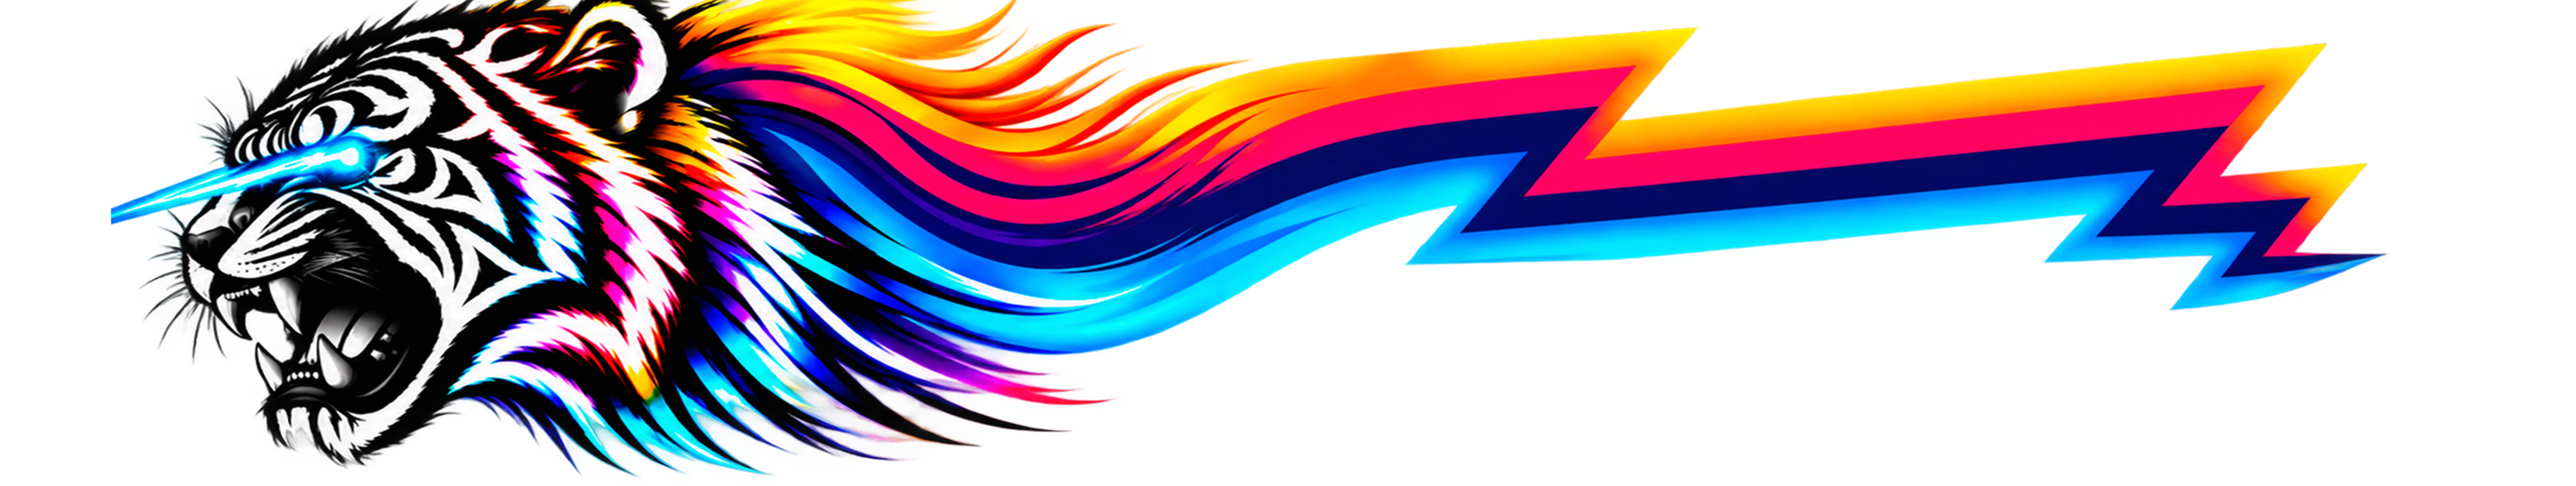
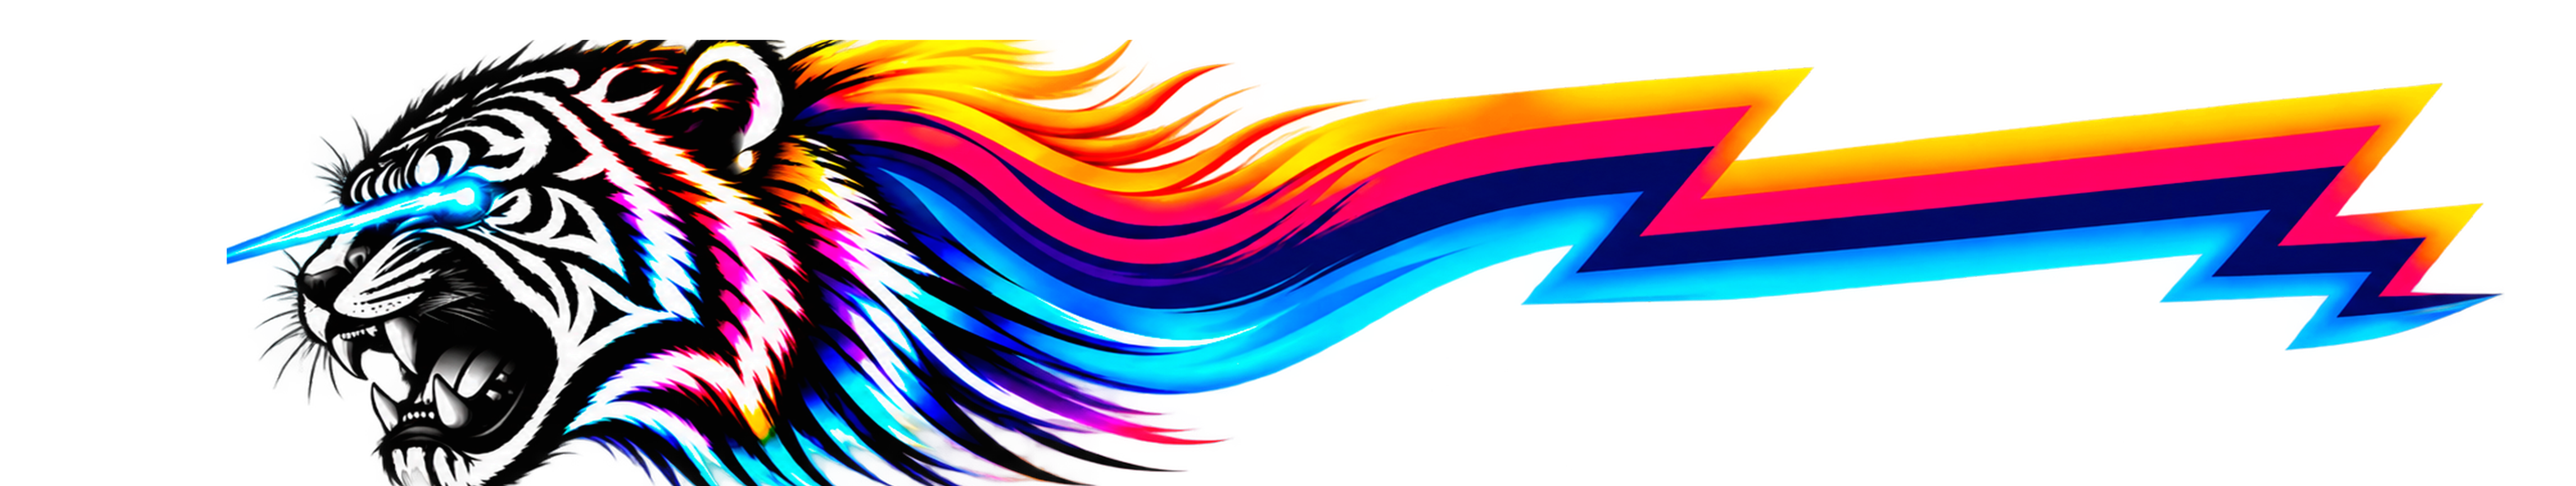
Tiger moved 39 in right, 13 in down so the laser tip lands on the locker-room door's top-right corner (Tripp 2026-10-12)
art/M8.png and sm/art/M8.png shifted in place (design content only, canvas unchanged); the beam tip now sits at 76 in in, 80 in up = the door's right edge at the door top. Lower jaw now runs about 10 in below the floor line and is clipped. GPT_BRIEF laser line updated. No measurement constant changed, so spec and layers untouched.

diff --git a/GPT_BRIEF.md b/GPT_BRIEF.md
@@ -40,7 +40,7 @@ Then wait for Tripp's go. This read-back is the whole point of the spec; it catc
 - **B4 mirrors:** Michael bought **48 ft** of mirror (11 October 2026): that is the run. 8 ft tall, standing on the **top edge of the trim**, not on the floor, so 80 to 1040 px up. The model places the run starting 9 ft past M4 (Tripp's working value, 8 to 10 ft): along Wall 4 it spans 6960 to 12720 px (58 ft to 106 ft from the B3 corner), ending 89 ft before the M7 corner. Where along the wall the 48 ft sits is still open, so keep focal elements a foot or so clear of the mirror ends and expect the position to move. In the sections: B4-1 has mirrors from 1080 px to its right edge, B4-2 from its left edge to 960 px, and B4-3 has none.
 - Above the mirrors, the B4 Mirror Band has about 4 ft 11 in up to the ceiling (about 4 ft 3 in if the field sheet's 8 in crown is real).
 - **Layer files**, transparent PNGs at the exact canvas px: `layers/trim/<id>.png` for every wall and every Wall 4 section; `layers/mirrors/<id>.png` for Wall 4 and B4-1/2/3; `layers/doors/<id>.png`, each door and its casing cut out of the wall photo, for every wall with a door; `layers/sections/<id>.png`, the pink section lines and tags, for Wall 4 and each section. Write `+` as `-` in the file id (`M4-B4`). Fetch them at `https://trippart.github.io/PPH-PHASE-2-WALKTHROUGH/layers/...`.
-- **Doors:** every door is cut out of the wall in the 3D model and the trim breaks at it. On M8 the three doors and the 5 ft opening at the right end are placed where the photo shows them; the locker-room double doors at the far LEFT end (left edge on the M7 corner, 0 to 800 px, 800 px high) are from Tripp (2026-10-12), not the photo, cut as a standard 6 ft x 6 ft 8 in pair, size provisional. The Tiger's laser beam is meant to hit that door's left trim.
+- **Doors:** every door is cut out of the wall in the 3D model and the trim breaks at it. On M8 the three doors and the 5 ft opening at the right end are placed where the photo shows them; the locker-room double doors at the far LEFT end (left edge on the M7 corner, 0 to 800 px, 800 px high) are from Tripp (2026-10-12), not the photo, cut as a standard 6 ft x 6 ft 8 in pair, size provisional. The Tiger's laser beam hits that door's RIGHT edge: on 2026-10-12 Tripp had the whole Tiger design moved 39 in right and 13 in down inside `art/M8.png` (and `sm/art/M8.png`), so the beam tip now lands on the door's top-right corner (76 in in from the M7 corner, 80 in up). The design's lower jaw runs about 10 in below the floor line and is clipped there.
 - The stacking order is wall photo, then design, then doors, trim and mirrors, then the pink section guides on top. Lay the layers over your design to check it. Never paint the trim or the mirrors into a design.
 
 ## The walls (summary; the spec has the keep-outs)
